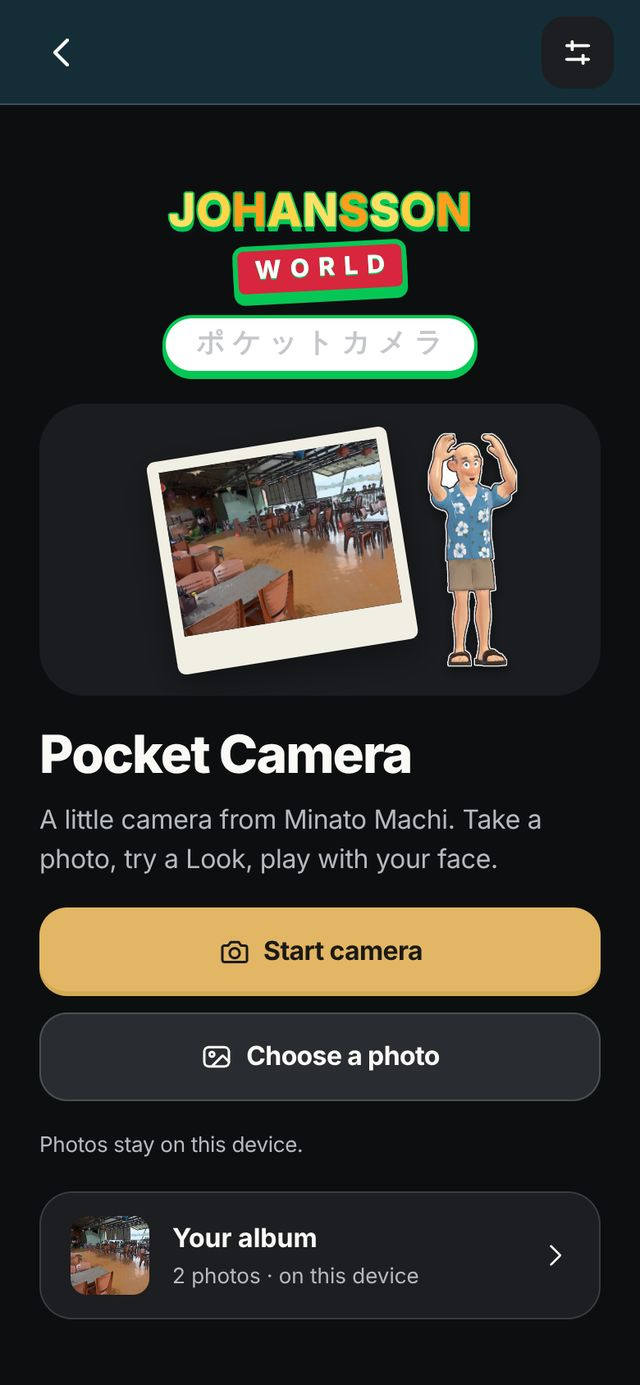
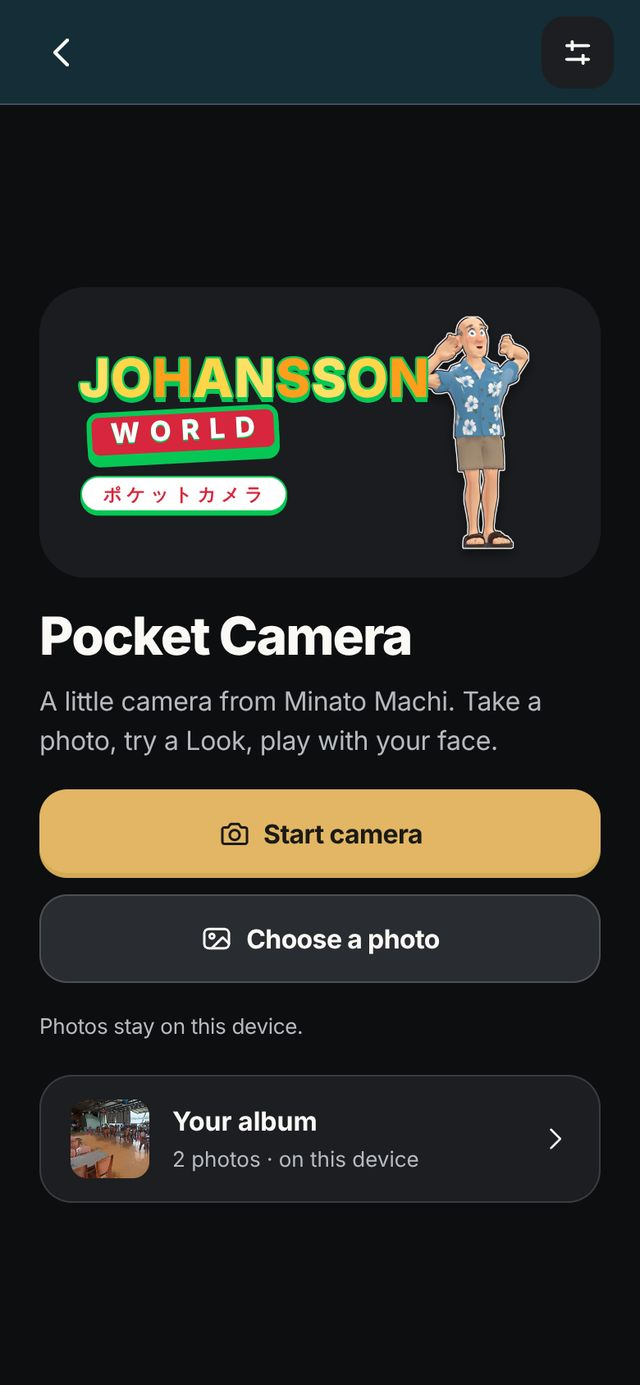
Pocket Camera: the title card's wordmark moves into the hero beside the greeter
The first cut put Johansson World's wordmark and the pill above the hero card, and on an iPhone SE's Safari the album
card fell off the first screen (camera.browser.mjs: "welcomeAlbum inside the stage"). The hero card now holds the
wordmark at the left and the dancing greeter at the right, the sample print it held is gone, and the card keeps its
height, so the greeting fits as before. The wordmark is sized by the card's height, capped by its width (--wm; the box
and the pill follow it). The welcome's container queries are scoped to the stage by name, since the hero became a size
container of its own and the stage-only query had hidden the greeter. The offline bundle rebuilt after the last edit.

Claude-Session: https://claude.ai/code/session_0137qroTAJr4EZazy5vmLQ8E

diff --git a/camera/camera-ui.css b/camera/camera-ui.css
@@ -18,9 +18,10 @@
 .camera.idle .dock{display:none}
 .camera.idle .stage{display:block;overflow:auto;touch-action:pan-y;container-type:normal}
 .welcome{position:relative;inset:auto;min-height:100%;width:min(100%,560px);margin:auto;display:flex;flex-direction:column;justify-content:center;align-items:stretch;gap:18px;padding:24px;overflow:visible;text-align:left;background:none}
-.welcome-hero{position:relative;display:flex;align-items:center;justify-content:center;flex:none;height:clamp(100px,21dvh,190px);border-radius:28px;background:var(--hero);overflow:hidden;isolation:isolate}
-.welcome-print{width:148px;max-width:56%;height:auto;border:7px solid #f1eee4;border-bottom-width:23px;border-radius:5px;transform:rotate(-9deg);margin-right:46px;box-shadow:0 8px 20px var(--shadow)}
-.welcome .welcome-sticker{position:absolute;right:12%;bottom:8px;height:90%;max-width:42%;width:auto;max-height:170px;object-fit:contain;margin:0;animation:none;transform:none;filter:drop-shadow(0 3px 3px #0007)}
+/* The hero is the title card: the World's wordmark at the left (camera-brand.css sizes it by the hero's height), the
+   greeter dancing at the right. */
+.welcome-hero{position:relative;display:flex;align-items:center;justify-content:flex-start;flex:none;height:clamp(100px,21dvh,190px);padding:0 0 0 7%;border-radius:28px;background:var(--hero);overflow:hidden;isolation:isolate;container-type:size}
+.welcome .welcome-sticker{position:absolute;right:10%;bottom:8px;height:90%;max-width:36%;width:auto;max-height:170px;object-fit:contain;margin:0;animation:none;transform:none;filter:drop-shadow(0 3px 3px #0007)}
 /* The greeter's dance: a hop and a sway, --dance its tempo (app.js setDance); still under reduced motion. */
 .welcome .welcome-sticker.dancing{animation:welcome-dance var(--dance,1.1s) ease-in-out infinite;transform-origin:50% 100%}
 @keyframes welcome-dance{0%,100%{transform:translateY(0) rotate(-4deg)}25%{transform:translateY(-9px) rotate(0)}50%{transform:translateY(0) rotate(4deg)}75%{transform:translateY(-9px) rotate(0)}}
@@ -179,12 +180,12 @@
 .editor .segmented button:not([aria-selected=true]):not(:focus-visible) span{position:absolute;clip-path:inset(50%);width:1px;height:1px;overflow:hidden;white-space:nowrap}
 @media(min-width:850px){.editor .look-groups{gap:0}}
 @media(max-height:620px){
- .welcome{gap:14px;padding:16px 20px}.welcome-hero{height:100px}.welcome-copy h2{font-size:1.75rem}.welcome .welcome-sticker{min-height:72px}.welcome-print{width:118px;border-width:5px;border-bottom-width:17px}
+ .welcome{gap:14px;padding:16px 20px}.welcome-hero{height:100px}.welcome-copy h2{font-size:1.75rem}.welcome .welcome-sticker{min-height:72px}
  .editor>.stage{padding:10px 20px;min-height:96px}.editor .panel{padding:8px 12px}.editor .tile{width:60px;min-width:60px}.editor .tile .face{width:52px;height:52px}.editor .strip{gap:6px;padding:4px 0}
  .editor .look-groups{padding:4px 0}.editor .layers{padding-bottom:0}
 }
 @media(min-width:700px) and (min-height:700px){
- .welcome{width:min(640px,100%);padding:40px 32px;gap:28px}.welcome-hero{height:280px}.welcome-print{width:230px;margin-right:70px}.welcome .welcome-sticker{height:240px;max-height:240px;right:15%;bottom:18px}.welcome-copy h2{font-size:2.625rem}.welcome-copy p{font-size:1.125rem}
+ .welcome{width:min(640px,100%);padding:40px 32px;gap:28px}.welcome-hero{height:280px}.welcome .welcome-sticker{height:240px;max-height:240px;right:12%;bottom:18px}.welcome-copy h2{font-size:2.625rem}.welcome-copy p{font-size:1.125rem}
  .editor>.stage{padding:28px 40px}.editor>.dock{max-height:50%;width:min(100%,744px);align-self:center}.editor .panel{max-height:calc(50dvh - 76px);padding:16px 24px}
  .editor .segmented{padding:12px 24px}.editor .segmented button{min-height:48px;font-size:.875rem}
  .album .grid{grid-template-columns:repeat(3,minmax(0,1fr));gap:24px 18px}.album .album-scroll{padding:32px}
@@ -197,10 +198,9 @@
  .editor .segmented button{min-height:64px;font-size:.75rem}.editor .look-groups{grid-template-columns:repeat(3,minmax(0,1fr))}
  .editor .strip{flex-wrap:nowrap;justify-content:flex-start}.editor .layers{flex-wrap:wrap;padding:0;min-height:44px}
  .camera.idle{display:flex}.camera.idle .stage{padding:0;grid-column:auto;grid-row:auto}
- .welcome{display:grid;grid-template-columns:minmax(0,1.05fr) minmax(0,1fr);grid-template-rows:auto auto auto auto auto;align-content:center;gap:20px 40px;max-width:1000px;width:100%;padding:32px 48px}
- .welcome-brand{grid-column:1/-1;grid-row:1;margin-bottom:4px}
- .welcome-hero{grid-column:1;grid-row:2/6;height:100%;min-height:300px;max-height:420px}.welcome-copy{grid-column:2;grid-row:2}.welcome-actions{grid-column:2;grid-row:3}.welcome-note-row{grid-column:2;grid-row:4}.welcome-album{grid-column:2;grid-row:5}
- .welcome .welcome-sticker{height:225px;max-height:225px;right:9%;bottom:24px}.welcome-print{width:210px;margin-right:50px}.welcome-copy h2{font-size:2.25rem}
+ .welcome{display:grid;grid-template-columns:minmax(0,1.05fr) minmax(0,1fr);grid-template-rows:auto auto auto auto;align-content:center;gap:20px 40px;max-width:1000px;width:100%;padding:32px 48px}
+ .welcome-hero{grid-column:1;grid-row:1/5;height:100%;min-height:300px;max-height:420px}.welcome-copy{grid-column:2;grid-row:1}.welcome-actions{grid-column:2;grid-row:2}.welcome-note-row{grid-column:2;grid-row:3}.welcome-album{grid-column:2;grid-row:4}
+ .welcome .welcome-sticker{height:225px;max-height:225px;right:9%;bottom:24px}.welcome-copy h2{font-size:2.25rem}
  .album .grid{grid-template-columns:repeat(4,minmax(0,1fr))}
 }
 @media(min-width:850px) and (max-height:420px){

diff --git a/camera/camera-brand.css b/camera/camera-brand.css
@@ -17,18 +17,22 @@
 .standalone .camera .brand-lockup{align-items:flex-start}
 @media (display-mode:standalone){.camera .brand-lockup{align-items:flex-start}}
 
-/* The title card (the welcome): the World's wordmark and the camera's Japanese name over the hero, then the camera's
-   own words. The wordmark is the World's title logo at a label's size, its colours the title screen's own. */
-.welcome-brand{--wm-sun:#ffd54a;--wm-sun-2:#ffe066;--wm-orange:#ff9f1c;--wm-red:#d7263d;--wm-green:#06c755;display:flex;flex-direction:column;align-items:center;gap:12px;padding:6px 0 0;-webkit-user-select:none;user-select:none}
+/* The title card (the welcome): the World's wordmark and the camera's Japanese name in the hero, at the left of the
+   dancing greeter, then the camera's own words. The wordmark is the World's title logo at a label's size, its colours
+   the title screen's own; it is sized by the hero's height (a size container, camera-ui.css), so the card keeps the
+   height it had and the whole greeting still fits an iPhone SE's Safari. */
+/* --wm is the wordmark's size: by the hero's height, capped by its width so the greeter keeps its room; the box and the
+   pill follow it, so the three keep the title screen's proportions. */
+.welcome-brand{--wm-sun:#ffd54a;--wm-sun-2:#ffe066;--wm-orange:#ff9f1c;--wm-red:#d7263d;--wm-green:#06c755;--wm:min(clamp(1.125rem,24cqh,2.5rem),10.2cqw);position:relative;z-index:1;display:flex;flex-direction:column;align-items:flex-start;gap:clamp(6px,7cqh,14px);padding:0;-webkit-user-select:none;user-select:none}
 /* Written under .welcome-brand: the welcome's own paragraph colours (camera.css, camera-black.css) would paint them. */
-.welcome-brand .world-mark{display:flex;flex-direction:column;align-items:center;margin:0;max-width:none;line-height:1;font-family:var(--font-brand);font-weight:800;font-size:1rem;color:var(--wm-sun)}
-.welcome-brand .world-mark-main{display:flex;font-size:clamp(1.75rem,7vw,2.25rem);letter-spacing:.01em}
+.welcome-brand .world-mark{display:flex;flex-direction:column;align-items:flex-start;margin:0;max-width:none;line-height:1;font-family:var(--font-brand);font-weight:800;font-size:1rem;color:var(--wm-sun)}
+.welcome-brand .world-mark-main{display:flex;font-size:var(--wm);letter-spacing:.01em}
 /* Outline and extrusion are stacked shadows, so the sun fill stays whole (as the World draws it). */
 .welcome-brand .world-mark-main span{display:inline-block;color:var(--wm-sun);text-shadow:.035em 0 0 var(--wm-green),-.035em 0 0 var(--wm-green),0 .035em 0 var(--wm-green),0 -.035em 0 var(--wm-green),.025em .025em 0 var(--wm-green),-.025em .025em 0 var(--wm-green),.025em -.025em 0 var(--wm-green),-.025em -.025em 0 var(--wm-green),0 .06em 0 var(--wm-green),0 .085em 0 var(--wm-green),.02em .1em 0 var(--wm-green),0 .14em .12em rgba(16,32,43,.35)}
 .welcome-brand .world-mark-main span:nth-child(odd){color:var(--wm-sun-2)}.welcome-brand .world-mark-main span:nth-child(3n){color:var(--wm-orange)}
-.welcome-brand .world-mark-town{display:flex;margin-top:0;padding:.16em .5em .2em;font-size:clamp(.95rem,3.6vw,1.2rem);letter-spacing:.18em;text-indent:.18em;color:#fff;background:var(--wm-red);border:3px solid var(--wm-green);border-radius:.45em;box-shadow:0 4px 0 var(--wm-green);transform:rotate(-3deg)}
+.welcome-brand .world-mark-town{display:flex;margin:.1em 0 0 .3em;padding:.16em .5em .2em;font-size:calc(var(--wm)*.52);letter-spacing:.18em;text-indent:.18em;color:#fff;background:var(--wm-red);border:.18em solid var(--wm-green);border-radius:.45em;box-shadow:0 .25em 0 var(--wm-green);transform:rotate(-3deg)}
 .welcome-brand .world-mark-town span{text-shadow:0 .05em 0 var(--wm-green)}
-.welcome-brand .world-mark-jp{display:inline-block;margin:0;max-width:none;padding:.3rem .9rem .32rem;border:2px solid var(--wm-green);border-radius:2rem;background:#fff;color:var(--wm-red);font:700 .8125rem/1.2 var(--font-brand);letter-spacing:.28em;text-indent:.28em;box-shadow:0 3px 0 var(--wm-green)}
+.welcome-brand .world-mark-jp{display:inline-block;margin:0 0 0 .1em;max-width:none;padding:.3em .9em .32em;border:.15em solid var(--wm-green);border-radius:2em;background:#fff;color:var(--wm-red);font:700 max(.5625rem,calc(var(--wm)*.34))/1.2 var(--font-brand);letter-spacing:.28em;text-indent:.28em;box-shadow:0 .2em 0 var(--wm-green)}
 .welcome-copy h2{font-family:var(--font-brand);letter-spacing:-.03em}
 .welcome-copy .brand-eyebrow{margin-bottom:6px}
 

diff --git a/camera/index.html b/camera/index.html
@@ -118,12 +118,14 @@
    </div>
    </div><aside class="look-rail camera-rail" aria-label="Active Looks and camera controls"><div id="cameraLookRail"></div><button type="button" class="zoom" id="zoom" aria-label="Zoom 1×">1×</button><button type="button" class="exposure-chip" id="exposureChip" hidden><svg><use href="#i-light"/></svg><span></span></button></aside></div>
    <div class="welcome" id="welcome" hidden>
-    <!-- The title card: Johansson World's wordmark (its title screen's, at a label's size) and the camera's Japanese name, once, here only (camera-brand.css). -->
-    <div class="welcome-brand" id="welcomeBrand">
-     <p class="world-mark" role="img" aria-label="Johansson World"><span class="world-mark-main" aria-hidden="true"><span>J</span><span>O</span><span>H</span><span>A</span><span>N</span><span>S</span><span>S</span><span>O</span><span>N</span></span><span class="world-mark-town" aria-hidden="true"><span>W</span><span>O</span><span>R</span><span>L</span><span>D</span></span></p>
-     <p class="world-mark-jp" lang="ja">ポケットカメラ</p>
+    <!-- The title card's hero: Johansson World's wordmark (its title screen's, at a label's size) and the camera's Japanese name, once, here only, beside the dancing greeter (camera-brand.css). -->
+    <div class="welcome-hero">
+     <div class="welcome-brand" id="welcomeBrand">
+      <p class="world-mark" role="img" aria-label="Johansson World"><span class="world-mark-main" aria-hidden="true"><span>J</span><span>O</span><span>H</span><span>A</span><span>N</span><span>S</span><span>S</span><span>O</span><span>N</span></span><span class="world-mark-town" aria-hidden="true"><span>W</span><span>O</span><span>R</span><span>L</span><span>D</span></span></p>
+      <p class="world-mark-jp" lang="ja">ポケットカメラ</p>
+     </div>
+     <img class="welcome-sticker" id="welcomeSticker" alt="" aria-hidden="true" hidden>
     </div>
-    <div class="welcome-hero" aria-hidden="true"><img class="welcome-print" src="samples/default-adventure.png" alt="" decoding="async"><img class="welcome-sticker" id="welcomeSticker" alt="" hidden></div>
     <div class="welcome-copy"><h2>Pocket Camera</h2><p>A little camera from Minato Machi. Take a photo, try a Look, play with your face.</p></div>
     <div class="welcome-actions">
      <button type="button" class="button primary" id="startCamera"><svg><use href="#i-camera"/></svg>Start camera</button>

diff --git a/camera/camera.css b/camera/camera.css
@@ -95,7 +95,8 @@ svg .fill{fill:currentColor;stroke:none}
 
 /* The stage holds the picture, centred and whole. */
 .stage{flex:1;min-height:0;position:relative;display:grid;place-items:center;overflow:hidden;touch-action:none}
-#cameraStage{container-type:size}
+/* The stage is a named size container: the welcome's queries below ask it, not the hero card (a size container of its own for the wordmark, camera-brand.css). */
+#cameraStage{container:stage / size}
 .frame{position:relative;overflow:hidden;background:#0c0c0d}
 .camera .frame{border-radius:4px}
 .frame canvas{display:block;width:100%;height:100%}
@@ -108,8 +109,8 @@ svg .fill{fill:currentColor;stroke:none}
 .welcome p{margin:0;max-width:28ch;color:var(--label-2);font-size:17px;line-height:1.35}
 .welcome .fine{max-width:42ch;font-size:13px;color:var(--label-3)}
 .welcome-actions{display:flex;flex-direction:column;align-items:stretch;gap:10px;width:min(260px,100%);margin:6px 0 2px}
-@container (max-height:380px){.welcome-sticker{display:none}.welcome .fine{display:none}}
-@container (max-height:250px){.welcome p{display:none}}
+@container stage (max-height:380px){.welcome-sticker{display:none}.welcome .fine{display:none}}
+@container stage (max-height:250px){.welcome p{display:none}}
 .button{display:inline-flex;align-items:center;justify-content:center;gap:8px;min-height:48px;padding:0 20px;border-radius:24px;background:var(--fill-strong);font-size:17px;font-weight:600;letter-spacing:-.02em;transition:transform .25s var(--spring)}
 .button svg{width:20px;height:20px}
 .button:active{transform:scale(.95)}

diff --git a/camera/sw.js b/camera/sw.js
@@ -1,5 +1,5 @@
 // Atomic, verified offline bundle. Regenerate with node tools/build-camera-offline.mjs.
[2 lines of base64/hex data omitted]
 const CACHE='pocket-camera-'+BUILD.slice(0,20),META='/camera/offline.json';
 const digest=async bytes=>Array.from(new Uint8Array(await crypto.subtle.digest('SHA-256',bytes)),b=>b.toString(16).padStart(2,'0')).join('');
 let manifest;

diff --git a/camera/README.md b/camera/README.md
@@ -585,10 +585,11 @@ iOS-camera yellow, the system font, and "Pocket Camera" with no origin. Now (`ca
   ("Johansson World · Minato Machi", the version, "Visit the World ›" to `/johansson-town/`), the Game Room's kicker
   (the bar there says "Minato Machi", the room "Game Room"), the share card (`social-share.js`: the lockup on an ink
   header, the camera's name at the foot, the text signed "Pocket Camera · Johansson World").
-- **The toy wordmark once, on the title card.** The welcome opens with the World's wordmark at a label's size and the
-  camera's Japanese name, ポケットカメラ, in the World's pill (signs in Japanese, words in English), then the hero,
-  "Pocket Camera" and "A little camera from Minato Machi. Take a photo, try a Look, play with your face." The bar's
-  lockup is hidden while the title card carries the brand.
+- **The toy wordmark once, on the title card.** The welcome's hero card holds the World's wordmark at a label's size
+  and the camera's Japanese name, ポケットカメラ, in the World's pill (signs in Japanese, words in English), beside
+  the dancing greeter (the sample print it held before is gone); under it "Pocket Camera" and "A little camera from
+  Minato Machi. Take a photo, try a Look, play with your face." The wordmark is sized by the hero's height, so the
+  greeting still fits whole on an iPhone SE's Safari; the bar's lockup is hidden while the title card carries the brand.
 - **The palette.** The accent is the World's gold (`#e2b665`; a deep brass `#7d5a1c` for chosen text in light, 4.5:1
   and better on every surface); in dark the bars, the editor's tab row and the status bar take the World's ink
   (`--bar:#142d37`, the browser's theme colour with it); light leans a touch towards the World's paper. The field

diff --git a/camera/HANDOVER-BRAND-2026-11-09.md b/camera/HANDOVER-BRAND-2026-11-09.md
@@ -30,7 +30,9 @@ against now come from `camera/tests/fixtures/published-baselines/` (the local ru
 See the README, "Johansson World's brand on the camera". In short: the lockup (eyebrow JOHANSSON WORLD over Pocket
 Camera, Avenir Next / Yu Gothic) in the camera bar, the settings foot (with "Visit the World ›" to `/johansson-town/`),
 the Game Room (bar "Minato Machi", kicker "Johansson World") and the share card; the World's toy wordmark and the pill
-ポケットカメラ on the title card only (the bar's lockup hidden there); gold `#e2b665` for what is chosen (brass
+ポケットカメラ on the title card only, in the hero card beside the dancing greeter, sized by the card's height so the
+greeting still fits an iPhone SE's Safari whole (a first cut put them above the hero and the album card fell off the
+first screen: `camera.browser.mjs` caught it) (the bar's lockup hidden there); gold `#e2b665` for what is chosen (brass
 `#7d5a1c` in light), the World's ink `#142d37` for the dark bars, the tab row and the status bar (`theme-color`,
 manifest `theme_color`), light a touch towards paper; the Film frame's edge prints JOHANSSON WORLD; the icons redrawn
 on ink with a gold ring (`tools/draw-camera-icon.py`); page title, descriptions and manifest name the World.
